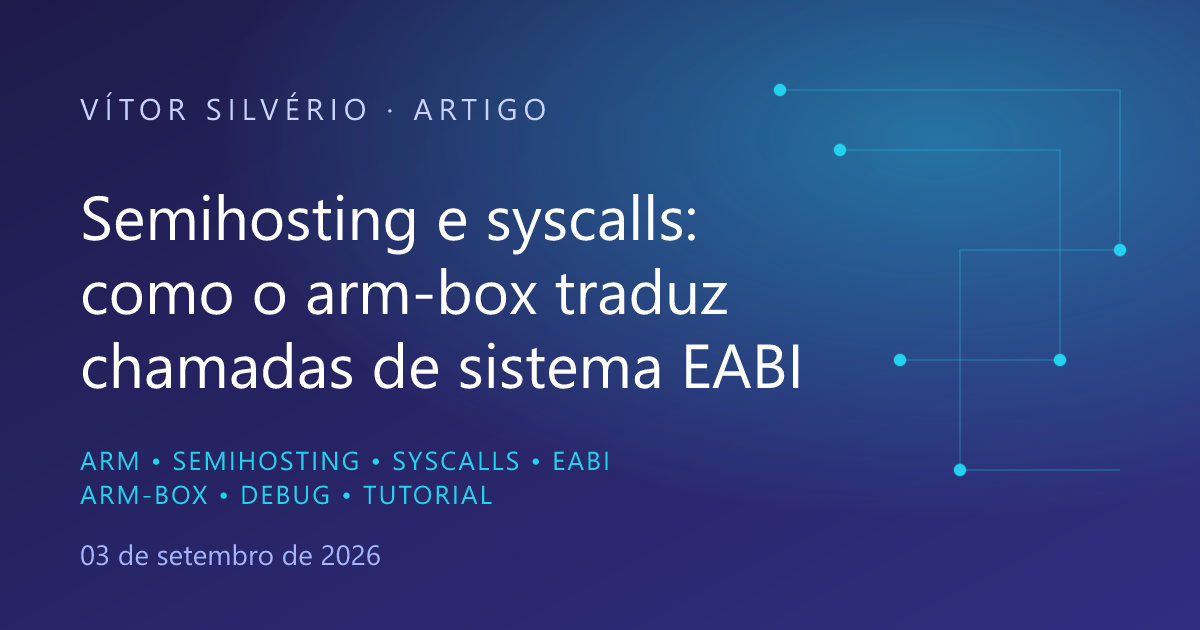
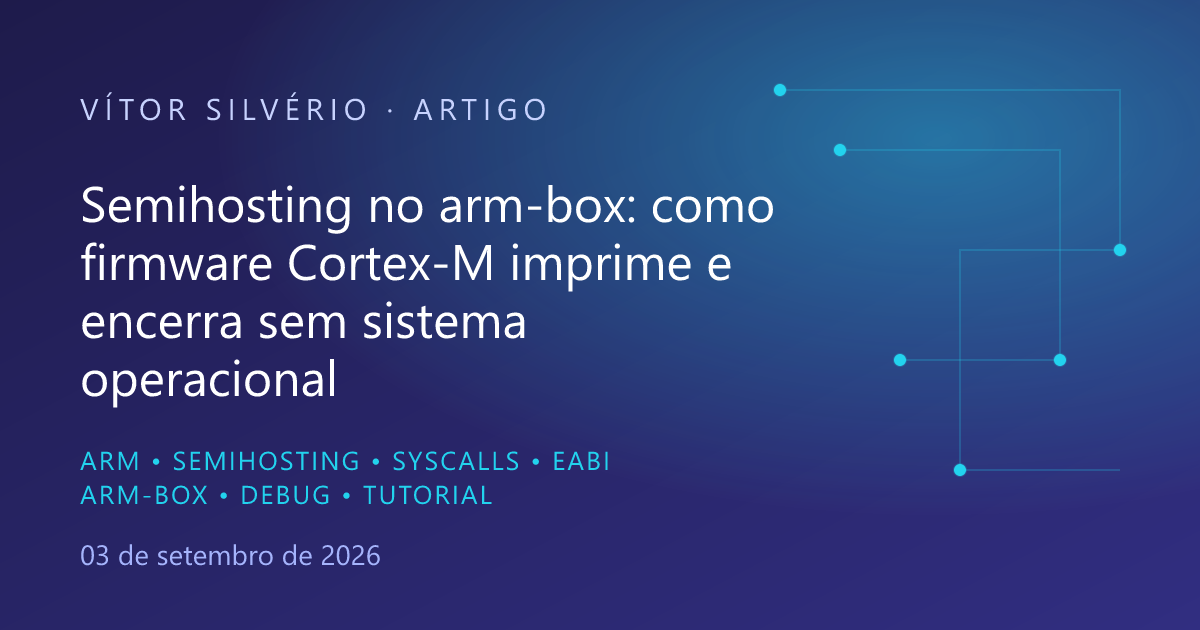
Novo título do artigo semihosting
"Semihosting e syscalls: como o arm-box traduz chamadas de sistema EABI
para o host" -> "Semihosting no arm-box: como firmware Cortex-M imprime e
encerra sem sistema operacional". Syscalls EABI (SVC para um sistema
operacional) é outro mecanismo; depois da revisão o artigo trata só de
semihosting (BKPT #0xAB, operação em R0, parâmetro em R1). O slug não
muda, então nenhum link quebra. Capa, feed.xml e llms.txt regenerados.

Changed region(s): [[0.0617, 0.3016, 0.6783, 0.6333]]

diff --git a/site/src/app/data/articles.ts b/site/src/app/data/articles.ts
@@ -118,7 +118,7 @@ export const articles: readonly ArticleMeta[] = [
   },
   {
     slug: 'semihosting',
-    title: 'Semihosting e syscalls: como o arm-box traduz chamadas de sistema EABI para o host',
+    title: 'Semihosting no arm-box: como firmware Cortex-M imprime e encerra sem sistema operacional',
     date: '2026-09-03',
     readingTime: '11 min',
     excerpt: 'Semihosting é o contrato que deixa firmware sem sistema operacional imprimir e encerrar pedindo serviços ao depurador ou emulador: R0 traz a operação, R1 o parâmetro e uma instrução de captura (BKPT #0xAB no Cortex-M) dispara a chamada. Este artigo mostra os números corretos das operações, roda um exemplo no arm-box e explica o que o emulador implementa e onde ele diverge da especificação.',
